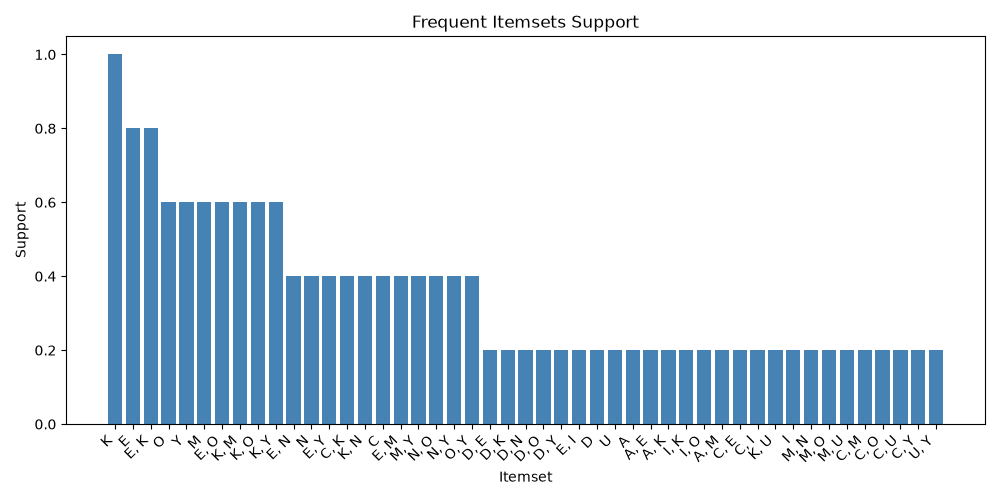
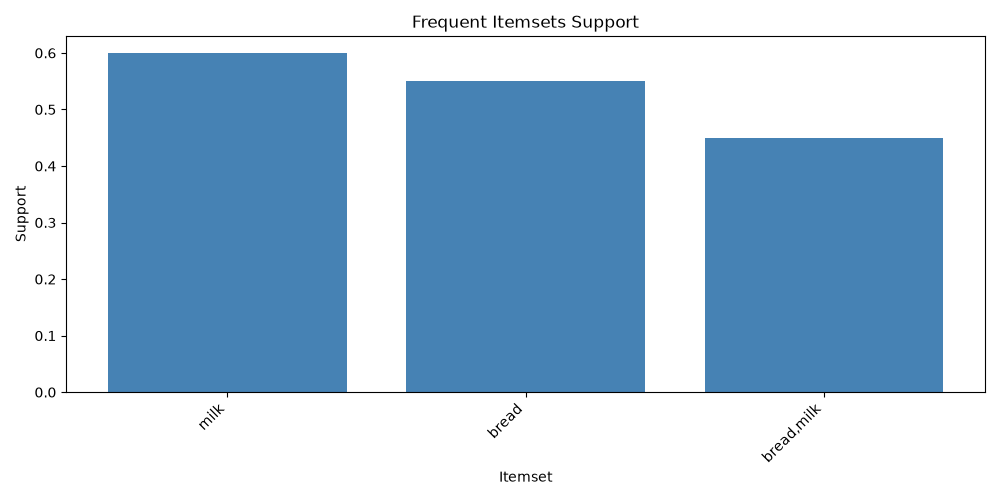
code is running

diff --git a/src/visualization.py b/src/visualization.py
@@ -2,10 +2,9 @@ import os
 import matplotlib.pyplot as plt
 
 def plot_frequent_itemsets(frequent_itemsets, save_path="outputs/charts/frequent_itemsets.png"):
-
-   if not frequent_itemsets:
-    print("no freq intemsets to plot")
-    return
+    if not frequent_itemsets:
+        print("no freq itemsets to plot")
+        return
 
     items = list(frequent_itemsets.items())
 
@@ -14,20 +13,29 @@ def plot_frequent_itemsets(frequent_itemsets, save_path="outputs/charts/frequent
             if items[j][1] > items[i][1]:
                 items[i], items[j] = items[j], items[i]
 
-   
-    values = []
     labels = []
+    values = []
+
     for itemset, support in items:
         labels.append(",".join(sorted(itemset)))
-        values.append(support) 
+        values.append(support)
 
     plt.figure(figsize=(10, 5))
-    plt.bar(labels,values,color="steelblue")
+    plt.bar(labels, values, color="steelblue")
     plt.xlabel("Itemset")
     plt.ylabel("Support")
     plt.title("Frequent Itemsets Support")
-    plt.xticks(rotation=45,ha="right")
+    plt.xticks(rotation=45, ha="right")
     plt.tight_layout()
-    os.makedirs(os.path.dirname(save_path),exist_ok=True)
+
+    os.makedirs(os.path.dirname(save_path) or ".", exist_ok=True)
     plt.savefig(save_path)
     plt.show()
+
+
+frequent_itemsets = {
+    frozenset(["milk", "bread"]): 0.45,
+    frozenset(["milk"]): 0.60,
+    frozenset(["bread"]): 0.55,
+}
+plot_frequent_itemsets(frequent_itemsets)
